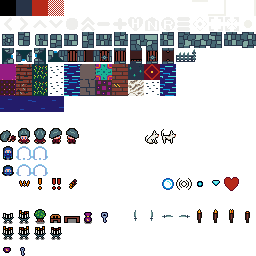
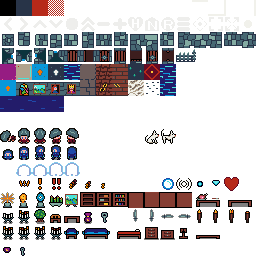
Big batch of tileset additions plus player juice - most tiles have yet to be added to gameplay.

diff --git a/src/game.ts b/src/game.ts
@@ -544,7 +544,7 @@ function bumpAnim(state: State, dx: number, dy: number) {
             {pt0:pos0, pt1:pos1, duration:0.05, fn:tween.linear},
             {pt0:pos1, pt1:pos0, duration:0.05, fn:tween.linear}
         ],
-        [tileSet.playerTiles[0]]);
+        [tileSet.playerTiles['normal']]);
 }
 
 function bumpFail(state: State, dx: number, dy: number) {
@@ -828,6 +828,12 @@ function tryPlayerStep(state: State, dx: number, dy: number) {
 
     const start = vec2.clone(posOld).subtract(posNew);
     const end = vec2.create();
+    let mid = start.add(end).scale(0.5)
+    if(dx!==0) mid = mid.add(vec2.fromValues(0,0.125));
+    const tile = dx<0? tileSet.playerTiles['left']:
+        dx>0? tileSet.playerTiles['right']:
+        dy>0? tileSet.playerTiles['up']:
+        tileSet.playerTiles['down']
 
     let tweenSeq;
 
@@ -838,10 +844,14 @@ function tryPlayerStep(state: State, dx: number, dy: number) {
             {pt0:gp, pt1:end, duration:0.1, fn:tween.easeOutQuad},
         ];
     } else {
-        tweenSeq = [{pt0:start, pt1:end, duration:0.2, fn:tween.easeOutQuad}];
+        tweenSeq = [{pt0:start, pt1:mid, duration:0.1, fn:tween.easeOutQuad},
+                    {pt0:mid, pt1:end, duration:0.1, fn:tween.easeOutQuad}
+        ];
+        tweenSeq.push({pt0:end, pt1:end, duration:0.1, fn:tween.easeOutQuad})
     }
 
-    player.animation = new SpriteAnimation(tweenSeq, [tileSet.playerTiles[0]]);
+
+    player.animation = new SpriteAnimation(tweenSeq, [tile]);
 
     // Collect loot
 
@@ -1004,7 +1014,21 @@ function tryPlayerLeap(state: State, dx: number, dy: number) {
 
     const start = vec2.clone(posOld).subtract(posNew);
     const end = vec2.create();
-    player.animation = new SpriteAnimation([{pt0:start, pt1:end, duration:0.2, fn:tween.easeOutQuad}], [tileSet.playerTiles[0]]);
+    let mid = start.add(end).scale(0.5)
+    if(dx!==0) mid = mid.add(vec2.fromValues(0,0.5));
+    const tile = dx<0? tileSet.playerTiles['left']:
+                 dx>0? tileSet.playerTiles['right']:
+                 dy>0? tileSet.playerTiles['up']:
+                 tileSet.playerTiles['down'];
+
+    const tweenSeq = [
+        {pt0:start, pt1:mid, duration:0.1, fn:tween.easeInQuad},
+        {pt0:mid, pt1:end, duration:0.1, fn:tween.easeOutQuad}
+    ]
+    tweenSeq.push({pt0:end, pt1:end, duration:0.1, fn:tween.easeOutQuad})
+
+    player.animation = new SpriteAnimation(tweenSeq, [tile]
+    );
 
     // Collect any loot from posNew
 
@@ -1322,11 +1346,11 @@ function renderPlayer(state: State, renderer: Renderer) {
     if(state.player.animation) {
         tileInfo = state.player.animation.currentTile();
     } else {
-        tileInfo = player.damagedLastTurn ? p[1] :
-        player.noisy ? p[3] :
-        hidden ? p[2] :
-        !lit ? p[4] :
-        p[0];
+        tileInfo = player.damagedLastTurn ? p['wounded'] :
+        player.noisy ? p['noisy'] :
+        hidden ? p['hidden'] :
+        !lit ? p['unlit'] :
+        p['normal'];
     }
 
     renderer.addGlyph(x, y, x+1, y+1, tileInfo, lit);

diff --git a/src/tilesets.ts b/src/tilesets.ts
@@ -23,7 +23,7 @@ export type TileSet = {
     itemTiles: Array<TileInfo>;
     guardStateTiles: Array<TileInfo>;
     npcTiles: Array<TileInfo>;
-    playerTiles: Array<TileInfo>;
+    playerTiles: {[id:string]:TileInfo};
     ledgeTiles: Array<TileInfo>;
     unlitTile: TileInfo;
     flattenTexture: boolean;
@@ -180,13 +180,17 @@ const tileSet31Color:TileSet = {
         {textureIndex: r([0, 8]),    color:colorPreset.white,     unlitColor:colorPreset.darkGray},//guardW
         {textureIndex: r([0, 8]),    color:colorPreset.white,     unlitColor:colorPreset.darkGray},//guardS
     ],
-    playerTiles: [
-        {textureIndex: r([0, 9]),   color:colorPreset.white,     unlitColor:colorPreset.lightGray}, //playerNormal
-        {textureIndex: r([0, 9]),   color:colorPreset.lightRed,  unlitColor:colorPreset.darkRed}, //playerWounded
-        {textureIndex: r([0,10]),   color:colorPreset.darkGray,  unlitColor:colorPreset.darkerGray}, //playerHidden: 
-        {textureIndex: r([0, 9]),   color:colorPreset.lightGray, unlitColor:colorPreset.darkGray}, //playerNoisy: 
-        {textureIndex: r([0, 9]),   color:colorPreset.white,     unlitColor:colorPreset.lightGray}, //playerUnlit: 
-    ],
+    playerTiles: {
+        normal:  {textureIndex: r([1, 9]), color:colorPreset.white,     unlitColor:colorPreset.lightGray},
+        wounded: {textureIndex: r([1, 9]), color:colorPreset.lightRed,  unlitColor:colorPreset.darkRed},
+        hidden:  {textureIndex: r([0, 9]), color:colorPreset.darkGray,  unlitColor:colorPreset.darkerGray}, 
+        noisy:   {textureIndex: r([1, 9]), color:colorPreset.lightGray, unlitColor:colorPreset.darkGray},
+        unlit:   {textureIndex: r([1, 9]), color:colorPreset.white,     unlitColor:colorPreset.lightGray},
+        right:   {textureIndex: r([2, 9]), color:colorPreset.white,     unlitColor:colorPreset.lightGray},
+        left:    {textureIndex: r([3, 9]), color:colorPreset.white,     unlitColor:colorPreset.lightGray},
+        down:    {textureIndex: r([1, 9]), color:colorPreset.white,     unlitColor:colorPreset.lightGray},
+        up:      {textureIndex: r([4, 9]), color:colorPreset.white,     unlitColor:colorPreset.lightGray},
+    },
     guardStateTiles: [
         {textureIndex: r([0,11])}, //Relaxed
         {textureIndex: r([1,11])}, //Angry

diff --git a/src/ui.ts b/src/ui.ts
@@ -792,7 +792,7 @@ Mouse, touch and gamepad also supported
 
 `Key 
 
-#${getTileSet().playerTiles[0].textureIndex}# Thief: You!
+#${getTileSet().playerTiles['normal'].textureIndex}# Thief: You!
 #${getTileSet().npcTiles[3].textureIndex}# Guard: Avoid them!
 #${getTileSet().itemTiles[ItemType.Coin].textureIndex}# Loot: Collect for score, or spend to heal
 #${getTileSet().itemTiles[ItemType.Bush].textureIndex}# Tree: Hiding place
